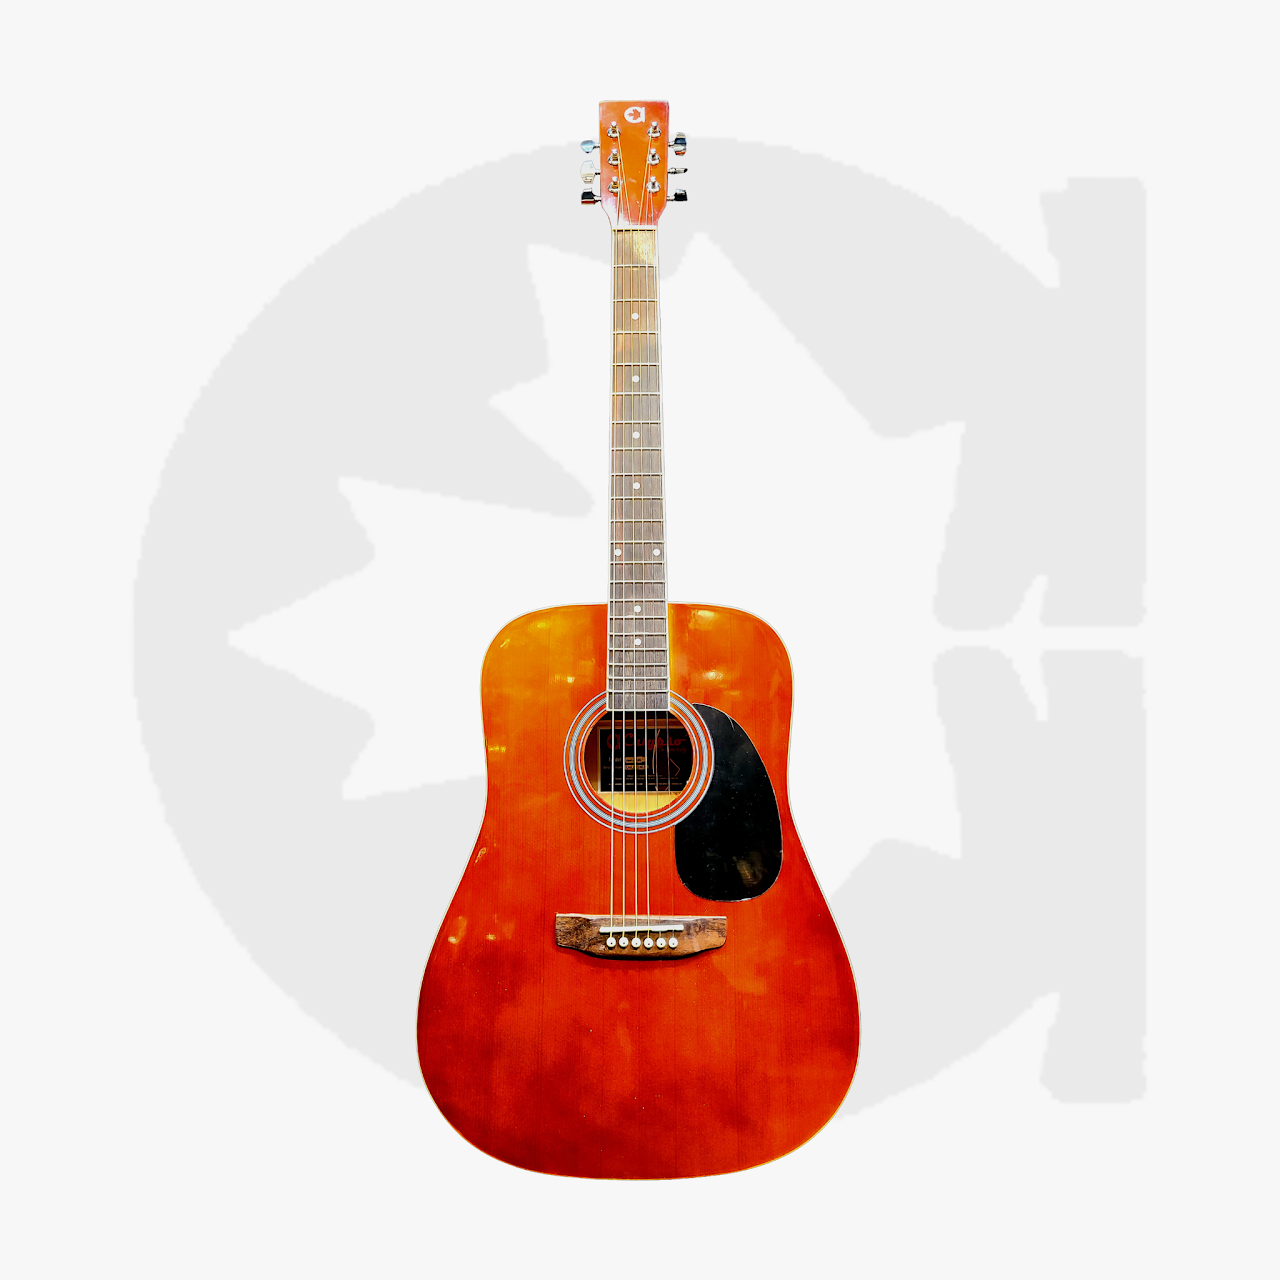
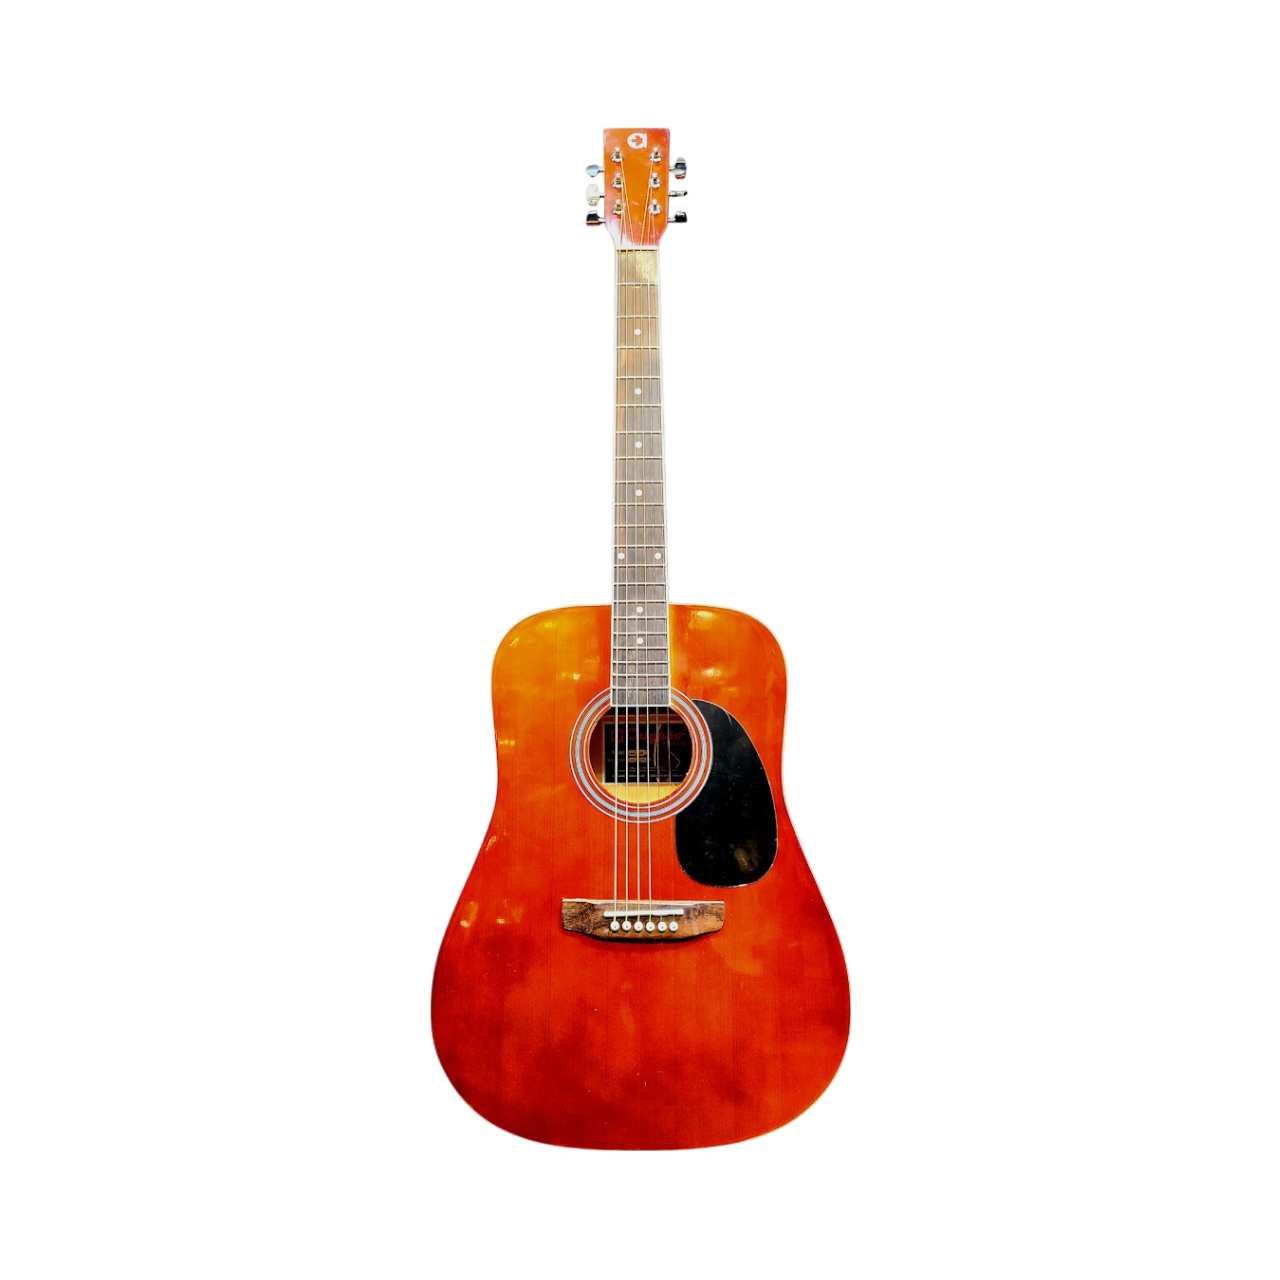
minor adjustments to style and photos

Changed region(s): [[0.3125, 0.0625, 0.6875, 0.9375], [0.4062, 0.8125, 0.4375, 0.8438], [0.375, 0.7812, 0.4062, 0.8125]]

diff --git a/calypso-website/src/containers/sideBar.jsx b/calypso-website/src/containers/sideBar.jsx
@@ -1,26 +1,32 @@
 import "./sideBar.css";
 import { useTranslation } from "react-i18next";
-import { Link } from "react-router-dom";
+import { Link, useLocation } from "react-router-dom";
 import { useState } from "react";
 
 function SideBar({ isSidebarOpen, toggleSidebar }) {
   const { t } = useTranslation();
   const [isExtensionOpen, setIsExtensionOpen] = useState(false);
   const toggleExtension = () => setIsExtensionOpen(!isExtensionOpen);
+  const location = useLocation();
+
+  // Helper function to check if a path is active
+  const isActive = (path) => location.pathname === path;
 
   return (
     <>
-      <div
-        className={`sidebar ${isSidebarOpen ? "open" : ""}`}
-        onMouseLeave={toggleSidebar}
-      >
+      <div className={`sidebar ${isSidebarOpen ? "open" : ""}`}>
+        <button onClick={toggleSidebar} className="close-sidebar">
+          X
+        </button>
+
         <ul className="items-list">
-          <li>
+          <li className={isActive("/items/pianos") ? "active" : ""}>
             <Link to={"/items/pianos"} onClick={toggleSidebar}>
               {t("pianos")}
             </Link>
           </li>
           <li
+            className={isActive("/items/guitar-bass") ? "active" : ""}
             onMouseEnter={() => setIsExtensionOpen(true)}
             onMouseLeave={() => setIsExtensionOpen(false)}
           >
@@ -33,32 +39,32 @@ function SideBar({ isSidebarOpen, toggleSidebar }) {
               <li>test3</li>
             </ul>
           </li>
-          <li>
+          <li className={isActive("/items/orchestral-strings") ? "active" : ""}>
             <Link onClick={toggleSidebar} to={"/items/orchestral-strings"}>
               {t("orchStrings")}
             </Link>
           </li>
-          <li>
+          <li className={isActive("/items/brass-wind") ? "active" : ""}>
             <Link onClick={toggleSidebar} to={"/items/brass-wind"}>
               {t("winds")}
             </Link>
           </li>
-          <li>
+          <li className={isActive("/items/drums-percussion") ? "active" : ""}>
             <Link onClick={toggleSidebar} to={"/items/drums-percussion"}>
               {t("drums")}
             </Link>
           </li>
-          <li>
+          <li className={isActive("/items/special") ? "active" : ""}>
             <Link onClick={toggleSidebar} to={"/items/special"}>
               {t("special")}
             </Link>
           </li>
-          <li>
+          <li className={isActive("/items/accessories") ? "active" : ""}>
             <Link to={"/items/accessories"} onClick={toggleSidebar}>
               {t("accessories")}
             </Link>
           </li>
-          <li>
+          <li className={isActive("/items/sonata-calypso") ? "active" : ""}>
             <Link onClick={toggleSidebar} to={"/items/sonata-calypso"}>
               {t("sonata")}
             </Link>

diff --git a/calypso-website/src/data/items.js b/calypso-website/src/data/items.js
@@ -386,7 +386,7 @@ const ITEMS = [
       "Immerse yourself in the rich tones of the Guitar Calypso Folk 140MAS, crafted for both elegance and comfort. Made with durable materials, this guitar ensures a lasting musical companion for your creative journey. Elevate your playing experience with the perfect blend of style and functionality â€“ strum away with the Guitar Calypso Folk 140MAS!",
     category: "GUITAR",
     subCategory: "ACOUSTIC",
-    pictureUrl: ["/images/guitars/Acoustic/140MAS.jpg"],
+    pictureUrl: ["/images/guitars/Acoustic/140MAS.png"],
   },
   {
     name: "Calypso Folk Black (38 Inches)",
@@ -504,7 +504,7 @@ const ITEMS = [
     description:
       "Experience the harmonious blend of style and sound with the Guitar Calypso Folk Slim EQ. Its sleek design not only catches the eye but also delivers a rich, resonant sound quality that will captivate any music enthusiast. With versatile EQ options, you can customize your tone to suit your unique style and preferences. Elevate your musical journey with the Guitar Calypso Folk Slim EQ - a perfect companion for any aspiring musician!",
     category: "GUITAR",
-    subCategory: "ACOUSTIC",
+    subCategory: "ELECTRO-ACOUSTIC",
     pictureUrl: ["/images/guitars/Acoustic/Electro/FG38-SLM-EQ.png"],
   },
   {

diff --git a/calypso-website/src/containers/sideBar.css b/calypso-website/src/containers/sideBar.css
@@ -2,19 +2,33 @@
   position: fixed;
   top: 0;
   left: -300px;
-  width: 15;
-  height: 31rem;
+  width: 15rem;
+  height: 70vh;
   transition: left 0.5s ease;
   border-radius: 2px;
   z-index: 1000;
   background-color: azure;
   border: 1px solid #242424;
+  overflow-y: auto;
 }
 
 .sidebar.open {
   left: 0;
 }
-
+.items-list li.active a {
+  text-shadow: 0 2px 4px rgba(218, 165, 32, 1);
+}
+.close-sidebar {
+  padding: 0;
+  background: none;
+  color: #242424;
+  border: 1px solid grey;
+  border-radius: 0;
+  position: relative;
+  left: 0;
+  top: -0rem;
+  margin: 0;
+}
 .items-list {
   font-family: Cambria, Cochin, Georgia, Times, "Times New Roman", serif;
   font-size: 20px;

diff --git a/calypso-website/src/components/item/Item.css b/calypso-website/src/components/item/Item.css
@@ -3,16 +3,15 @@
   padding: 2rem 2rem 0rem 2rem;
   border: 2px solid grey;
   border-radius: 10px;
-  box-shadow: 2px 2px 5px 2px grey;
   box-sizing: border-box;
   margin-bottom: 2rem;
-  background: radial-gradient(circle, white, azure);
-  transition: transform 0.3s ease, box-shadow 0.3s ease-in-out;
+  background: lightgray;
+  transition: transform 0.3s ease, background 0.3s ease;
   text-align: center;
 }
 .items-display__item:hover {
   transform: scale(1.1);
-  box-shadow: 2px 2px 5px 4px darkgrey;
+  background-color: white;
 }
 .item-name {
   text-align: center;

diff --git a/calypso-website/src/components/Accessories.css b/calypso-website/src/components/Accessories.css
@@ -12,12 +12,13 @@
 }
 .items-display img {
   /* margin: 2rem 2rem 2rem 2rem; */
-  mix-blend-mode: multiply;
   max-width: 100%;
   height: 17rem;
   display: block;
   object-fit: cover;
-  background-image: url("/images/backgroun/instrumentBackground.PNG");
+  background-image: url("/images/backgroun/instrumentBackground.png");
+  background-size: cover;
+  background-position: center center;
 }
 .items-display li {
   width: 250px;

diff --git a/calypso-website/src/containers/hamburgerMenu.jsx b/calypso-website/src/containers/hamburgerMenu.jsx
@@ -2,7 +2,7 @@ import "./hamburgerMenu.css";
 
 function HamburgerButton({ onHover }) {
   return (
-    <button className="hamburger" onMouseEnter={onHover} aria-label="Menu">
+    <button className="hamburger" onClick={onHover} aria-label="Menu">
       <span className="bar"></span>
       <span className="bar"></span>
       <span className="bar"></span>
